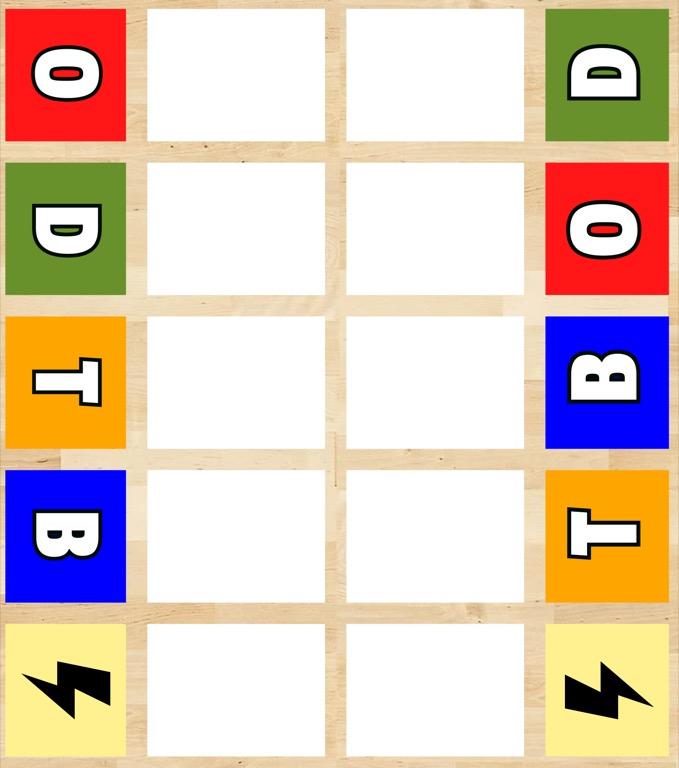
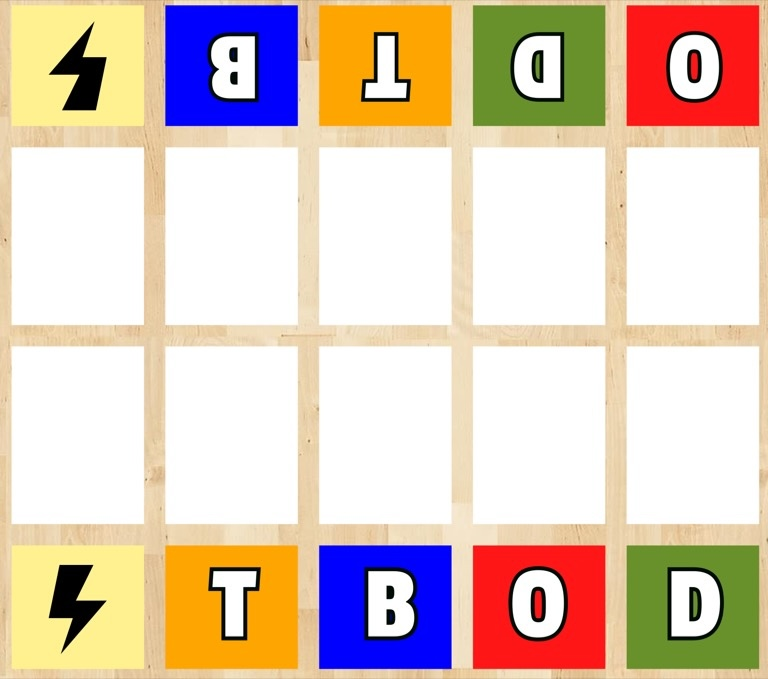
Remove all rotation transforms and update layout for new images
- Remove rotation from wrestling mat and stats boards
- Update stats boards to use single statsBoardOnly.jpg image
- Reposition wrestler cards on red/green boxes per new mat layout
- Reposition move cards for future use on mat layout
- Position stat tracker bubbles on colored squares in stats board
- Remove card rotation transforms for clean layout

🤖 Generated with [Claude Code](https://claude.ai/code)

diff --git a/matrevx.css b/matrevx.css
@@ -139,22 +139,21 @@
 }
 
 .player-stats-board {
-    width: 200px;
-    height: 350px;
+    width: 350px;
+    height: 200px;
     background-size: contain;
     background-repeat: no-repeat;
     background-position: center center;
     position: relative;
     flex-shrink: 0;
-    transform: rotate(90deg);
 }
 
 #left-stats-board {
-    background-image: url('img/statsBoardLeft.jpg');
+    background-image: url('img/statsBoardOnly.jpg');
 }
 
 #right-stats-board {
-    background-image: url('img/statsBoardRight.jpg');
+    background-image: url('img/statsBoardOnly.jpg');
 }
 
 .player-stats-board .stat-tracker {
@@ -175,21 +174,19 @@
     transform: none;
 }
 
-/* Left board (You - Current Player) stats - scaled for 350px height */
-#left-stats-board .offense-stat { top: 28px; left: 12px; }
-#left-stats-board .defense-stat { top: 94px; left: 12px; }
-#left-stats-board .top-stat { top: 158px; left: 12px; }
-#left-stats-board .bottom-stat { top: 220px; left: 12px; }
-#left-stats-board .conditioning-stat { top: 284px; left: 12px; }
-#left-stats-board .stalling-stat { display: none; }
+/* Stats board (unified) - positioned on colored squares in statsBoardOnly.jpg */
+.player-stats-board .offense-stat { top: 25px; left: 25px; }      /* Yellow lightning square top-left */
+.player-stats-board .top-stat { top: 25px; left: 95px; }          /* Orange T square top-center */  
+.player-stats-board .bottom-stat { top: 25px; left: 165px; }      /* Blue B square top-right */
+.player-stats-board .defense-stat { top: 25px; left: 235px; }     /* Red O square */
+.player-stats-board .conditioning-stat { top: 25px; left: 305px; } /* Green D square top-far-right */
 
-/* Right board (Opponent) stats - scaled for 350px height */  
-#right-stats-board .offense-stat { top: 28px; right: 32px; }
-#right-stats-board .defense-stat { top: 94px; right: 32px; }
-#right-stats-board .top-stat { top: 158px; right: 32px; }
-#right-stats-board .bottom-stat { top: 220px; right: 32px; }
-#right-stats-board .conditioning-stat { top: 284px; right: 32px; }
-#right-stats-board .stalling-stat { display: none; }
+/* Bottom row positioning */
+.player-stats-board .offense-stat.bottom { bottom: 25px; left: 25px; }      /* Yellow lightning square bottom-left */
+.player-stats-board .top-stat.bottom { bottom: 25px; left: 95px; }          /* Orange T square bottom-center */  
+.player-stats-board .bottom-stat.bottom { bottom: 25px; left: 165px; }      /* Blue B square bottom-right */
+.player-stats-board .defense-stat.bottom { bottom: 25px; left: 235px; }     /* Red O square bottom */
+.player-stats-board .conditioning-stat.bottom { bottom: 25px; left: 305px; } /* Green D square bottom-far-right */
 
 /* ========== WRESTLING MAT (Center) ========== */
 
@@ -199,8 +196,6 @@
     background: url('img/mat768.jpg') no-repeat center center;
     background-size: contain;
     position: relative;
-    transform: rotate(-90deg);
-    transform-origin: center center;
     flex-shrink: 0;
     z-index: 1;
     margin-right: 20px;
@@ -210,7 +205,7 @@
     position: absolute;
     top: 50%;
     left: 50%;
-    transform: translate(-50%, -50%) rotate(90deg);
+    transform: translate(-50%, -50%);
     width: 400px;
     z-index: 1000;
 }
@@ -235,13 +230,13 @@
     background: rgba(255, 215, 0, 0.2);
 }
 
-/* Player 1 card areas (Red/Left) - moved 40px right */
-#mat-p1-move { top: 120px; left: 65px; }
-#mat-p1-wrestler { top: 200px; left: 100px; }
+/* Player 1 card areas (Red/Bottom) - positioned on bottom red boxes */
+#mat-p1-move { bottom: 40px; left: 50px; }
+#mat-p1-wrestler { bottom: 40px; left: 200px; }
 
-/* Player 2 card areas (Green/Right) - moved 40px right */
-#mat-p2-move { top: 120px; right: -15px; }
-#mat-p2-wrestler { top: 200px; right: 20px; }
+/* Player 2 card areas (Green/Top) - positioned on top green boxes */
+#mat-p2-move { top: 40px; left: 200px; }
+#mat-p2-wrestler { top: 40px; left: 350px; }
 
 /* Scramble area (Yellow/Top) - hidden for now */
 #mat-scramble { display: none; }
@@ -267,7 +262,6 @@
     z-index: 10;
     position: relative;
     overflow: hidden;
-    transform: rotate(90deg);
 }
 
 .mat-card-header {
